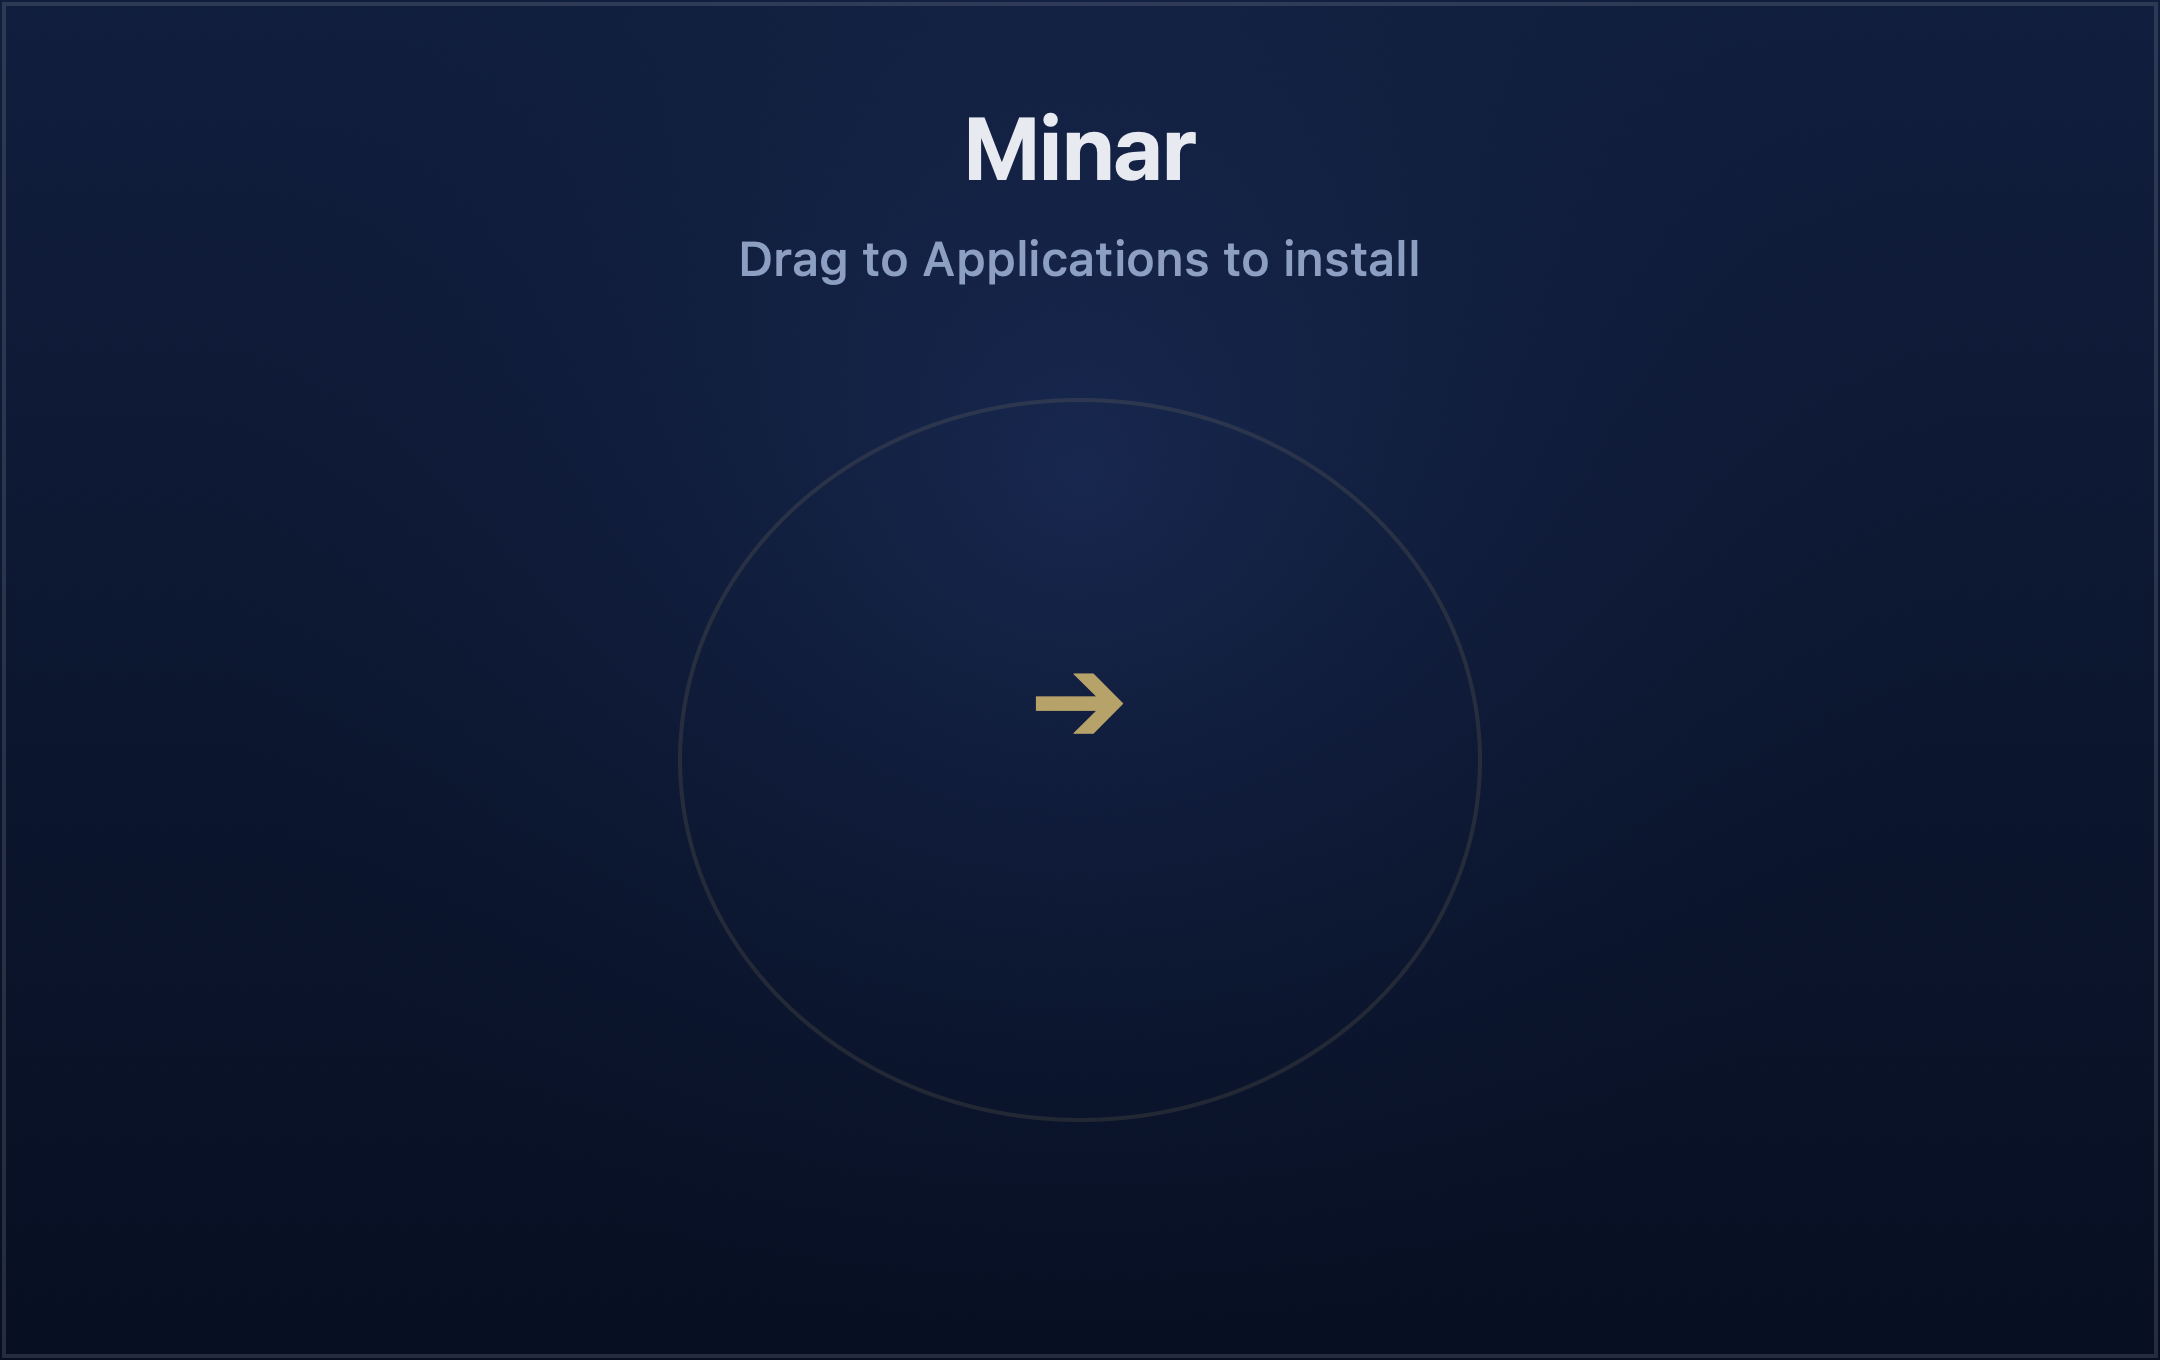
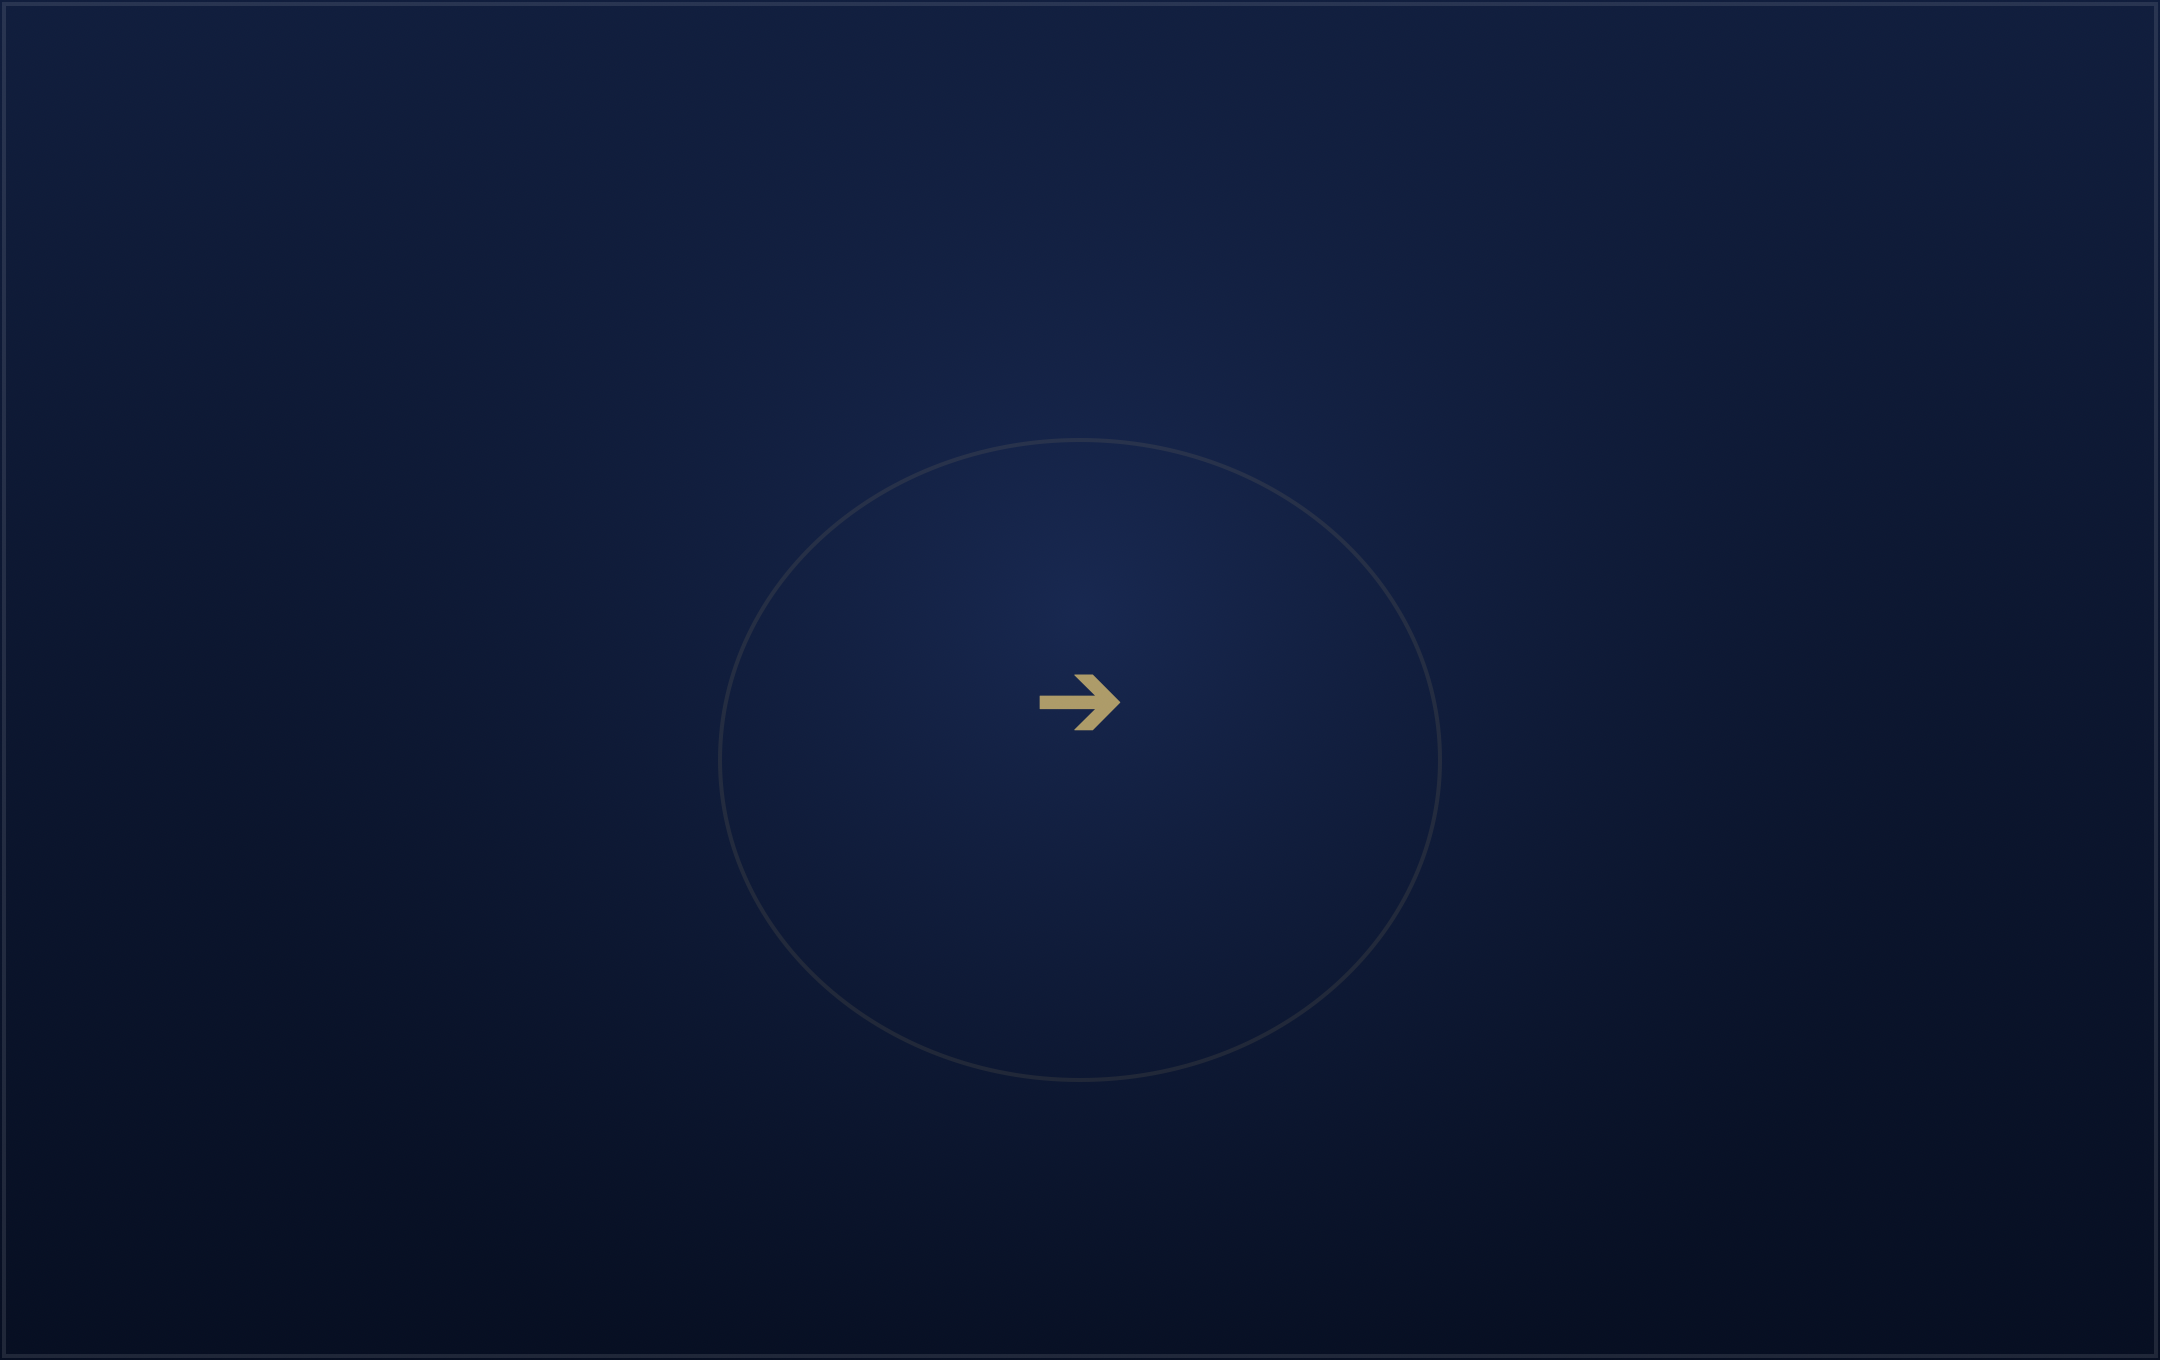
fix: remove all text from DMG background, keep pure navy gradient

Changed region(s): [[0.3412, 0.1853, 0.6514, 0.2162], [0.4343, 0.0618, 0.5583, 0.1544], [0.4963, 0.4941, 0.5273, 0.525]]

diff --git a/scripts/generate_dmg_background.swift b/scripts/generate_dmg_background.swift
@@ -16,71 +16,51 @@ ctx.setShouldAntialias(true)
 
 let colorSpace = CGColorSpaceCreateDeviceRGB()
 
-// 1. Rich Navy Dark Blue Background Gradient
+// 1. Rich Navy Dark Blue Background Gradient (Only background, clean and sleek)
 let bgColors = [
-    NSColor(srgbRed: 0.05, green: 0.12, blue: 0.25, alpha: 1.0).cgColor, // Rich Navy
-    NSColor(srgbRed: 0.02, green: 0.06, blue: 0.14, alpha: 1.0).cgColor  // Deep Navy base
+    NSColor(srgbRed: 0.05, green: 0.12, blue: 0.25, alpha: 1.0).cgColor, // Top Rich Navy
+    NSColor(srgbRed: 0.02, green: 0.06, blue: 0.14, alpha: 1.0).cgColor  // Bottom Deep Navy
 ] as CFArray
 if let bgGradient = CGGradient(colorsSpace: colorSpace, colors: bgColors, locations: [0.0, 1.0]) {
     ctx.drawLinearGradient(bgGradient, start: CGPoint(x: width / 2, y: height), end: CGPoint(x: width / 2, y: 0), options: [])
 }
 
-// 2. Ambient Navy Radial Glow in upper center
+// 2. Ambient Navy Radial Glow in Center
 let glowColors = [
-    NSColor(srgbRed: 0.12, green: 0.24, blue: 0.48, alpha: 0.40).cgColor,
+    NSColor(srgbRed: 0.12, green: 0.24, blue: 0.48, alpha: 0.45).cgColor,
     NSColor(srgbRed: 0.05, green: 0.12, blue: 0.25, alpha: 0.0).cgColor
 ] as CFArray
 if let glowGrad = CGGradient(colorsSpace: colorSpace, colors: glowColors, locations: [0.0, 1.0]) {
-    ctx.drawRadialGradient(glowGrad, startCenter: CGPoint(x: width / 2, y: height * 0.65), startRadius: 0, endCenter: CGPoint(x: width / 2, y: height * 0.65), endRadius: 220, options: [.drawsAfterEndLocation])
+    ctx.drawRadialGradient(glowGrad, startCenter: CGPoint(x: width / 2, y: height * 0.55), startRadius: 0, endCenter: CGPoint(x: width / 2, y: height * 0.55), endRadius: 220, options: [.drawsAfterEndLocation])
 }
 
-// 3. Subtle Arch contour (Minar theme)
+// 3. Subtle Arch silhouette (Minar motif)
 let archPath = CGMutablePath()
-let archRect = CGRect(x: width / 2 - 100, y: 60, width: 200, height: 180)
-archPath.addRoundedRect(in: archRect, cornerWidth: 100, cornerHeight: 100)
+let archRect = CGRect(x: width / 2 - 90, y: 70, width: 180, height: 160)
+archPath.addRoundedRect(in: archRect, cornerWidth: 90, cornerHeight: 90)
 ctx.saveGState()
 ctx.setLineWidth(1.0)
-ctx.setStrokeColor(NSColor(srgbRed: 0.85, green: 0.72, blue: 0.40, alpha: 0.12).cgColor)
+ctx.setStrokeColor(NSColor(srgbRed: 0.85, green: 0.72, blue: 0.40, alpha: 0.10).cgColor)
 ctx.addPath(archPath)
 ctx.strokePath()
 ctx.restoreGState()
 
-// 4. Central Arrow between App and Applications folder
+// 4. Subtle Minimalist Arrow between the two icon spots
 let arrowCenter = CGPoint(x: width / 2, y: 165)
-let arrowFont = NSFont.systemFont(ofSize: 26, weight: .light)
+let arrowFont = NSFont.systemFont(ofSize: 24, weight: .light)
 let arrowAttrs: [NSAttributedString.Key: Any] = [
     .font: arrowFont,
-    .foregroundColor: NSColor(srgbRed: 0.90, green: 0.76, blue: 0.40, alpha: 0.80)
+    .foregroundColor: NSColor(srgbRed: 0.90, green: 0.76, blue: 0.40, alpha: 0.75)
 ]
 let arrowStr = NSAttributedString(string: "➔", attributes: arrowAttrs)
 let arrowSize = arrowStr.size()
 arrowStr.draw(at: CGPoint(x: arrowCenter.x - arrowSize.width / 2, y: arrowCenter.y - arrowSize.height / 2))
 
-// 5. Header: "Minar" Title
-let titleFont = NSFont.systemFont(ofSize: 22, weight: .bold)
-let titleAttrs: [NSAttributedString.Key: Any] = [
-    .font: titleFont,
-    .foregroundColor: NSColor(srgbRed: 0.95, green: 0.96, blue: 0.98, alpha: 0.95)
-]
-let titleStr = NSAttributedString(string: "Minar", attributes: titleAttrs)
-let titleSize = titleStr.size()
-titleStr.draw(at: CGPoint(x: width / 2 - titleSize.width / 2, y: height - 50))
-
-// 6. Subtitle: "Drag to Applications to install"
-let subFont = NSFont.systemFont(ofSize: 12, weight: .medium)
-let subAttrs: [NSAttributedString.Key: Any] = [
-    .font: subFont,
-    .foregroundColor: NSColor(srgbRed: 0.65, green: 0.75, blue: 0.90, alpha: 0.80)
-]
-let subStr = NSAttributedString(string: "Drag to Applications to install", attributes: subAttrs)
-let subSize = subStr.size()
-subStr.draw(at: CGPoint(x: width / 2 - subSize.width / 2, y: height - 72))
-
-// 7. Outer subtle glass edge
+// 5. Outer glass border stroke
 let borderRect = CGRect(x: 1, y: 1, width: width - 2, height: height - 2)
 let borderPath = NSBezierPath(rect: borderRect)
 borderPath.lineWidth = 1
-NSColor(calibratedWhite: 1.0, alpha: 0.12).setStroke()
+NSColor(calibratedWhite: 1.0, alpha: 0.10).setStroke()
 borderPath.stroke()
 
 image.unlockFocus()
@@ -93,4 +73,4 @@ guard let tiff = image.tiffRepresentation,
 
 let outPath = CommandLine.arguments.count > 1 ? CommandLine.arguments[1] : "Resources/dmg_background.png"
 try png.write(to: URL(fileURLWithPath: outPath))
-print("Generated Navy Blue DMG background at \(outPath)")
+print("Generated clean textless Navy DMG background at \(outPath)")
